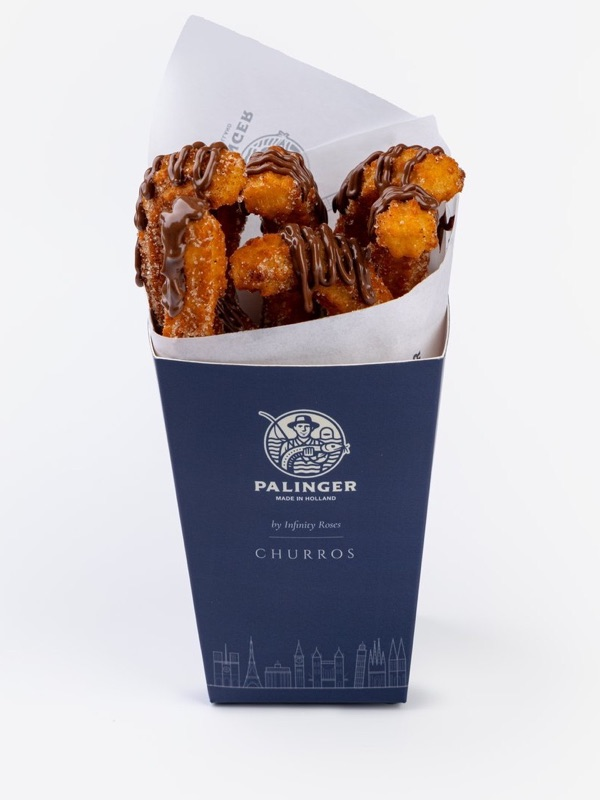
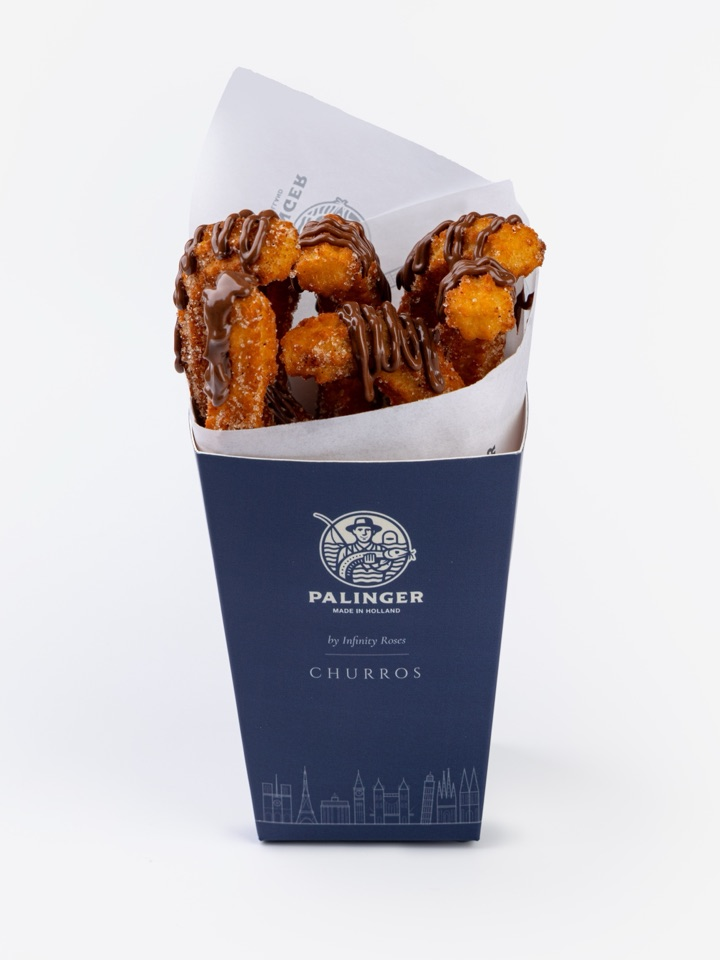
feat: TV wall is now all about desserts and ice cream
Scenes: brand, ice cream (four cups from the LED banner), churros, pancakes
and mini pancakes, crêpes, desserts to go, menu QR. New photos from the
October shoot; ice cream price 35 000 / 65 000 comes from the LED banner
until it is added to the menu with the id "ice-cream".

Changed region(s): [[0.21, 0.0, 0.78, 0.9062]]

diff --git a/tv/wall.js b/tv/wall.js
@@ -13,7 +13,7 @@
   var LANDMARKS = "<g id=\"lx-eiffel\"><path d=\"M0 44 C3 36 5 26 5.8 16 L6.4 6 L7 1 L7.6 6 L8.2 16 C9 26 11 36 14 44 M7 1 V-1.5\" fill=\"none\" stroke=\"#EFE9DC\" stroke-opacity=\"0.72\" stroke-width=\"0.532\" stroke-linecap=\"round\" stroke-linejoin=\"round\"></path><path d=\"M2.5 44 Q7 35.5 11.5 44 M2.4 34 H11.6 M2.2 35.2 H11.8 M4.9 21 H9.1 M4.7 22 H9.3 M6.1 10 H7.9 M6.4 3 H7.6 V4.6 H6.4 Z\" fill=\"none\" stroke=\"#EFE9DC\" stroke-opacity=\"0.7\" stroke-width=\"0.448\" stroke-linecap=\"round\" stroke-linejoin=\"round\"></path><path d=\"M1.2 42.5 L3.4 40.5 L1.9 38.3 L3.9 36.4 L2.6 34.6 M12.8 42.5 L10.6 40.5 L12.1 38.3 L10.1 36.4 L11.4 34.6 M3.2 34 L9.3 21 M10.8 34 L4.7 21 M5 32 L6.1 29 L5.3 26 L6.2 23 M9 32 L7.9 29 L8.7 26 L7.8 23 M5.2 21 L7.6 10 M8.8 21 L6.4 10 M6.3 18 L6.8 14 L6.4 11 M7.7 18 L7.2 14 L7.6 11 M4.5 40 Q7 37.4 9.5 40\" fill=\"none\" stroke=\"#EFE9DC\" stroke-opacity=\"0.5\" stroke-width=\"0.35\" stroke-linecap=\"round\" stroke-linejoin=\"round\"></path></g><g id=\"lx-pisa\"><g transform=\"rotate(5 5 44)\"><path d=\"M2 44 V10 H8 V44 M3 10 V6.2 H7 V10 M3 6.2 Q5 3.4 7 6.2 M1.6 10 H8.4 M1.6 15 H8.4 M5 3.9 V2.6\" fill=\"none\" stroke=\"#EFE9DC\" stroke-opacity=\"0.72\" stroke-width=\"0.532\" stroke-linecap=\"round\" stroke-linejoin=\"round\"></path><path d=\"M2 20 H8 M2 25 H8 M2 30 H8 M2 35 H8 M2 40 H8\" fill=\"none\" stroke=\"#EFE9DC\" stroke-opacity=\"0.6\" stroke-width=\"0.42\" stroke-linecap=\"round\" stroke-linejoin=\"round\"></path><path d=\"M2.20 20 V16.15 Q2.75 15.32 3.30 16.15 V20 M3.60 20 V16.15 Q4.15 15.32 4.70 16.15 V20 M5.00 20 V16.15 Q5.55 15.32 6.10 16.15 V20 M6.40 20 V16.15 Q6.95 15.32 7.50 16.15 V20 M2.20 25 V21.15 Q2.75 20.33 3.30 21.15 V25 M3.60 25 V21.15 Q4.15 20.33 4.70 21.15 V25 M5.00 25 V21.15 Q5.55 20.33 6.10 21.15 V25 M6.40 25 V21.15 Q6.95 20.33 7.50 21.15 V25 M2.20 30 V26.15 Q2.75 25.33 3.30 26.15 V30 M3.60 30 V26.15 Q4.15 25.33 4.70 26.15 V30 M5.00 30 V26.15 Q5.55 25.33 6.10 26.15 V30 M6.40 30 V26.15 Q6.95 25.33 7.50 26.15 V30 M2.20 35 V31.15 Q2.75 30.33 3.30 31.15 V35 M3.60 35 V31.15 Q4.15 30.33 4.70 31.15 V35 M5.00 35 V31.15 Q5.55 30.33 6.10 31.15 V35 M6.40 35 V31.15 Q6.95 30.33 7.50 31.15 V35 M2.20 40 V36.15 Q2.75 35.33 3.30 36.15 V40 M3.60 40 V36.15 Q4.15 35.33 4.70 36.15 V40 M5.00 40 V36.15 Q5.55 35.33 6.10 36.15 V40 M6.40 40 V36.15 Q6.95 35.33 7.50 36.15 V40 M2.20 45 V41.15 Q2.75 40.33 3.30 41.15 V45 M3.60 45 V41.15 Q4.15 40.33 4.70 41.15 V45 M5.00 45 V41.15 Q5.55 40.33 6.10 41.15 V45 M6.40 45 V41.15 Q6.95 40.33 7.50 41.15 V45\" fill=\"none\" stroke=\"#EFE9DC\" stroke-opacity=\"0.48\" stroke-width=\"0.308\" stroke-linecap=\"round\" stroke-linejoin=\"round\"></path><path d=\"M3.40 10 V7.60 Q3.80 7.00 4.20 7.60 V10 M4.60 10 V7.60 Q5.00 7.00 5.40 7.60 V10 M5.80 10 V7.60 Q6.20 7.00 6.60 7.60 V10\" fill=\"none\" stroke=\"#EFE9DC\" stroke-opacity=\"0.55\" stroke-width=\"0.308\" stroke-linecap=\"round\" stroke-linejoin=\"round\"></path></g></g><g id=\"lx-bigben\"><path d=\"M1 44 V15 H7 V44 M0.5 15 H7.5 M0.5 16.2 H7.5 M1.3 15 L4 3 L6.7 15 M4 3 V0.3 M1 23 H7 M1 24 H7\" fill=\"none\" stroke=\"#EFE9DC\" stroke-opacity=\"0.72\" stroke-width=\"0.532\" stroke-linecap=\"round\" stroke-linejoin=\"round\"></path><path d=\"M4 19 m-2.2 0 a2.2 2.2 0 1 0 4.4 0 a2.2 2.2 0 1 0 -4.4 0 M4 19 V17.6 M4 19 L5 19.7\" fill=\"none\" stroke=\"#EFE9DC\" stroke-opacity=\"0.7\" stroke-width=\"0.42\" stroke-linecap=\"round\" stroke-linejoin=\"round\"></path><path d=\"M5.60 19.00 L5.95 19.00 M5.39 19.80 L5.69 19.98 M4.80 20.39 L4.98 20.69 M4.00 20.60 L4.00 20.95 M3.20 20.39 L3.03 20.69 M2.61 19.80 L2.31 19.98 M2.40 19.00 L2.05 19.00 M2.61 18.20 L2.31 18.03 M3.20 17.61 L3.02 17.31 M4.00 17.40 L4.00 17.05 M4.80 17.61 L4.98 17.31 M5.39 18.20 L5.69 18.02\" fill=\"none\" stroke=\"#EFE9DC\" stroke-opacity=\"0.65\" stroke-width=\"0.308\" stroke-linecap=\"round\" stroke-linejoin=\"round\"></path><path d=\"M0.5 15 V13.6 M7.5 15 V13.6 M2.4 11 H5.6 M2.9 8.5 H5.1 M2.6 26 V42 M4 26 V42 M5.4 26 V42 M1 34 H7 M1.90 29 V27.00 Q2.40 26.25 2.90 27.00 V29 M3.30 29 V27.00 Q3.80 26.25 4.30 27.00 V29 M4.70 29 V27.00 Q5.20 26.25 5.70 27.00 V29\" fill=\"none\" stroke=\"#EFE9DC\" stroke-opacity=\"0.48\" stroke-width=\"0.35\" stroke-linecap=\"round\" stroke-linejoin=\"round\"></path></g><g id=\"lx-colosseum\"><path d=\"M0 44 V27 Q8 24.5 15 25 L15 27.5 L17.5 28.5 L18 31 L20.5 32 L22 34 V44\" fill=\"none\" stroke=\"#EFE9DC\" stroke-opacity=\"0.72\" stroke-width=\"0.532\" stroke-linecap=\"round\" stroke-linejoin=\"round\"></path><path d=\"M0 29.5 H15 M0 32 H18 M0 32.8 H18 M0 38 H22 M0 38.8 H22\" fill=\"none\" stroke=\"#EFE9DC\" stroke-opacity=\"0.6\" stroke-width=\"0.392\" stroke-linecap=\"round\" stroke-linejoin=\"round\"></path><path d=\"M1.00 44 V41.20 Q1.90 39.85 2.80 41.20 V44 M3.60 44 V41.20 Q4.50 39.85 5.40 41.20 V44 M6.20 44 V41.20 Q7.10 39.85 8.00 41.20 V44 M8.80 44 V41.20 Q9.70 39.85 10.60 41.20 V44 M11.40 44 V41.20 Q12.30 39.85 13.20 41.20 V44 M14.00 44 V41.20 Q14.90 39.85 15.80 41.20 V44 M16.60 44 V41.20 Q17.50 39.85 18.40 41.20 V44 M19.20 44 V41.20 Q20.10 39.85 21.00 41.20 V44 M1.00 37.6 V35.00 Q1.80 33.80 2.60 35.00 V37.6 M3.60 37.6 V35.00 Q4.40 33.80 5.20 35.00 V37.6 M6.20 37.6 V35.00 Q7.00 33.80 7.80 35.00 V37.6 M8.80 37.6 V35.00 Q9.60 33.80 10.40 35.00 V37.6 M11.40 37.6 V35.00 Q12.20 33.80 13.00 35.00 V37.6 M14.00 37.6 V35.00 Q14.80 33.80 15.60 35.00 V37.6 M16.60 37.6 V35.00 Q17.40 33.80 18.20 35.00 V37.6 M1.3 31.2 h1 v-1.2 h-1 Z M3.9 31.2 h1 v-1.2 h-1 Z M6.5 31.2 h1 v-1.2 h-1 Z M9.1 31.2 h1 v-1.2 h-1 Z M11.7 31.2 h1 v-1.2 h-1 Z M14.3 31.2 h1 v-1.2 h-1 Z M3.25 44 V38.8 M3.25 38 V32.8 M5.85 44 V38.8 M5.85 38 V32.8 M8.45 44 V38.8 M8.45 38 V32.8 M11.05 44 V38.8 M11.05 38 V32.8 M13.65 44 V38.8 M13.65 38 V32.8 M16.25 44 V38.8 M16.25 38 V32.8\" fill=\"none\" stroke=\"#EFE9DC\" stroke-opacity=\"0.5\" stroke-width=\"0.336\" stroke-linecap=\"round\" stroke-linejoin=\"round\"></path></g><g id=\"lx-brandenburg\"><path d=\"M0 44 V29 H18 V44 M-0.4 29 H18.4 M-0.4 30 H18.4 M0.6 29 V25.5 H17.4 V29 M0.6 25.5 H17.4 M7 25.5 V22.6 H11 V25.5\" fill=\"none\" stroke=\"#EFE9DC\" stroke-opacity=\"0.72\" stroke-width=\"0.532\" stroke-linecap=\"round\" stroke-linejoin=\"round\"></path><path d=\"M1.5 30 V44 M2.3 30 V44 M4 30 V44 M4.8 30 V44 M6.5 30 V44 M7.3 30 V44 M10.7 30 V44 M11.5 30 V44 M13.2 30 V44 M14 30 V44 M15.7 30 V44 M16.5 30 V44 M1.6 26.3 V28.2 M2.8 26.3 V28.2 M4.0 26.3 V28.2 M5.2 26.3 V28.2 M6.4 26.3 V28.2 M7.6 26.3 V28.2 M8.8 26.3 V28.2 M10.0 26.3 V28.2 M11.2 26.3 V28.2 M12.4 26.3 V28.2 M13.6 26.3 V28.2 M14.8 26.3 V28.2 M16.0 26.3 V28.2 M7.6 22.6 L8.2 20.6 L8.9 21 L9.3 22.6 M9.2 22.6 L9.8 20.4 L10.5 20.9 L10.6 22.6 M8.6 20.4 L9 18.6 L9.4 20.4\" fill=\"none\" stroke=\"#EFE9DC\" stroke-opacity=\"0.52\" stroke-width=\"0.336\" stroke-linecap=\"round\" stroke-linejoin=\"round\"></path></g><g id=\"lx-towerbridge\"><path d=\"M3 44 V16 H9 V44 M19 44 V16 H25 V44 M3 16 L6 9 L9 16 M19 16 L22 9 L25 16 M6 9 V6.8 M22 9 V6.8 M9 19.5 H19 M9 21.6 H19 M0 36 H3 M9 36 H19 M25 36 H28 M0 37 H3 M9 37 H19 M25 37 H28\" fill=\"none\" stroke=\"#EFE9DC\" stroke-opacity=\"0.72\" stroke-width=\"0.532\" stroke-linecap=\"round\" stroke-linejoin=\"round\"></path><path d=\"M2.5 16 V13.4 L3 12.6 L3.5 13.4 V16 M8.5 16 V13.4 L9 12.6 L9.5 13.4 V16 M18.5 16 V13.4 L19 12.6 L19.5 13.4 V16 M24.5 16 V13.4 L25 12.6 L25.5 13.4 V16 M0 30 Q1.5 34 3 34 M25 34 Q26.5 34 28 30 M9 24 Q14 32 19 24 M10.5 26.6 V36 M12.2 28.4 V36 M14 29 V36 M15.8 28.4 V36 M17.5 26.6 V36 M5.00 44 V38.50 Q6.00 37.00 7.00 38.50 V44 M21.00 44 V38.50 Q22.00 37.00 23.00 38.50 V44 M4.30 24.5 V21.00 Q4.80 20.25 5.30 21.00 V24.5 M6.70 24.5 V21.00 Q7.20 20.25 7.70 21.00 V24.5 M20.30 24.5 V21.00 Q20.80 20.25 21.30 21.00 V24.5 M22.70 24.5 V21.00 Q23.20 20.25 23.70 21.00 V24.5 M4.30 31 V27.50 Q4.80 26.75 5.30 27.50 V31 M6.70 31 V27.50 Q7.20 26.75 7.70 27.50 V31 M20.30 31 V27.50 Q20.80 26.75 21.30 27.50 V31 M22.70 31 V27.50 Q23.20 26.75 23.70 27.50 V31 M9.6 19.5 V21.6 M11.4 19.5 V21.6 M13.2 19.5 V21.6 M15 19.5 V21.6 M16.8 19.5 V21.6\" fill=\"none\" stroke=\"#EFE9DC\" stroke-opacity=\"0.5\" stroke-width=\"0.336\" stroke-linecap=\"round\" stroke-linejoin=\"round\"></path></g><g id=\"lx-sagrada\"><path d=\"M0 44 V24 L1.5 10 L3 24 L4.5 4 L6 24 L7.5 2 L9 24 L10.5 12 L12 24 V44 M0 30 H12 M0 31 H12 M4.5 4 V2.4 M7.5 2 V0.4 M6.9 1 H8.1 M3.9 3 H5.1\" fill=\"none\" stroke=\"#EFE9DC\" stroke-opacity=\"0.72\" stroke-width=\"0.532\" stroke-linecap=\"round\" stroke-linejoin=\"round\"></path><path d=\"M4 44 V36 Q6 31.6 8 36 V44 M5 44 V37 Q6 35 7 37 V44 M1.5 15 m-0.3 0 a0.3 0.5 0 1 0 0.6 0 a0.3 0.5 0 1 0 -0.6 0 M1.5 18 m-0.3 0 a0.3 0.5 0 1 0 0.6 0 a0.3 0.5 0 1 0 -0.6 0 M1.5 21 m-0.3 0 a0.3 0.5 0 1 0 0.6 0 a0.3 0.5 0 1 0 -0.6 0 M4.5 9 m-0.3 0 a0.3 0.5 0 1 0 0.6 0 a0.3 0.5 0 1 0 -0.6 0 M4.5 12 m-0.3 0 a0.3 0.5 0 1 0 0.6 0 a0.3 0.5 0 1 0 -0.6 0 M4.5 15 m-0.3 0 a0.3 0.5 0 1 0 0.6 0 a0.3 0.5 0 1 0 -0.6 0 M4.5 18 m-0.3 0 a0.3 0.5 0 1 0 0.6 0 a0.3 0.5 0 1 0 -0.6 0 M4.5 21 m-0.3 0 a0.3 0.5 0 1 0 0.6 0 a0.3 0.5 0 1 0 -0.6 0 M7.5 7 m-0.3 0 a0.3 0.5 0 1 0 0.6 0 a0.3 0.5 0 1 0 -0.6 0 M7.5 10 m-0.3 0 a0.3 0.5 0 1 0 0.6 0 a0.3 0.5 0 1 0 -0.6 0 M7.5 13 m-0.3 0 a0.3 0.5 0 1 0 0.6 0 a0.3 0.5 0 1 0 -0.6 0 M7.5 16 m-0.3 0 a0.3 0.5 0 1 0 0.6 0 a0.3 0.5 0 1 0 -0.6 0 M7.5 19 m-0.3 0 a0.3 0.5 0 1 0 0.6 0 a0.3 0.5 0 1 0 -0.6 0 M7.5 22 m-0.3 0 a0.3 0.5 0 1 0 0.6 0 a0.3 0.5 0 1 0 -0.6 0 M10.5 16 m-0.3 0 a0.3 0.5 0 1 0 0.6 0 a0.3 0.5 0 1 0 -0.6 0 M10.5 19 m-0.3 0 a0.3 0.5 0 1 0 0.6 0 a0.3 0.5 0 1 0 -0.6 0 M10.5 22 m-0.3 0 a0.3 0.5 0 1 0 0.6 0 a0.3 0.5 0 1 0 -0.6 0 M1 33 V42 M11 33 V42 M2.6 33 V42 M9.4 33 V42\" fill=\"none\" stroke=\"#EFE9DC\" stroke-opacity=\"0.52\" stroke-width=\"0.336\" stroke-linecap=\"round\" stroke-linejoin=\"round\"></path></g><g id=\"lx-arc\"><path d=\"M0 44 V20 H16 V44 M5 44 V31 Q8 25.6 11 31 V44 M-0.3 20 H16.3 M0 22.6 H16 M0 24 H16 M-0.3 25.2 H16.3\" fill=\"none\" stroke=\"#EFE9DC\" stroke-opacity=\"0.72\" stroke-width=\"0.532\" stroke-linecap=\"round\" stroke-linejoin=\"round\"></path><path d=\"M1.2 32 h3 v6 h-3 Z M11.8 32 h3 v6 h-3 Z M1.2 27 h3 v3.6 h-3 Z M11.8 27 h3 v3.6 h-3 Z M5.6 31 Q8 26.8 10.4 31 M1.0 20.6 V22.2 M2.1 20.6 V22.2 M3.2 20.6 V22.2 M4.3 20.6 V22.2 M5.4 20.6 V22.2 M6.5 20.6 V22.2 M7.6 20.6 V22.2 M8.7 20.6 V22.2 M9.8 20.6 V22.2 M10.9 20.6 V22.2 M12.0 20.6 V22.2 M13.1 20.6 V22.2 M14.2 20.6 V22.2 M15.3 20.6 V22.2\" fill=\"none\" stroke=\"#EFE9DC\" stroke-opacity=\"0.52\" stroke-width=\"0.336\" stroke-linecap=\"round\" stroke-linejoin=\"round\"></path></g><g id=\"lx-notredame\"><path d=\"M0 44 V14 H6 V44 M12 44 V14 H18 V44 M6 44 V24 H12 V44 M-0.3 14 H6.3 M11.7 14 H18.3 M0 22 H18 M0 23 H18 M8.6 24 L9 6 L9.4 24\" fill=\"none\" stroke=\"#EFE9DC\" stroke-opacity=\"0.72\" stroke-width=\"0.532\" stroke-linecap=\"round\" stroke-linejoin=\"round\"></path><path d=\"M9 28.6 m-2.3 0 a2.3 2.3 0 1 0 4.6 0 a2.3 2.3 0 1 0 -4.6 0\" fill=\"none\" stroke=\"#EFE9DC\" stroke-opacity=\"0.7\" stroke-width=\"0.42\" stroke-linecap=\"round\" stroke-linejoin=\"round\"></path><path d=\"M9 28.6 L11.30 28.60 M9 28.6 L10.63 30.23 M9 28.6 L9.00 30.90 M9 28.6 L7.37 30.23 M9 28.6 L6.70 28.60 M9 28.6 L7.37 26.97 M9 28.6 L9.00 26.30 M9 28.6 L10.63 26.97 M1.40 21 V16.10 Q2.00 15.20 2.60 16.10 V21 M3.40 21 V16.10 Q4.00 15.20 4.60 16.10 V21 M12.40 21 V16.10 Q13.00 15.20 13.60 16.10 V21 M14.40 21 V16.10 Q15.00 15.20 15.60 16.10 V21 M0.90 44 V38.10 Q3.00 34.95 5.10 38.10 V44 M13.00 44 V38.10 Q15.10 34.95 17.20 38.10 V44 M6.90 44 V37.60 Q9.00 34.45 11.10 37.60 V44 M0 33 H18 M0.8 23 V21.8 M1.7 23 V21.8 M2.6 23 V21.8 M3.5 23 V21.8 M4.4 23 V21.8 M5.3 23 V21.8 M6.2 23 V21.8 M7.1 23 V21.8 M8.0 23 V21.8 M8.9 23 V21.8 M9.8 23 V21.8 M10.7 23 V21.8 M11.6 23 V21.8 M12.5 23 V21.8 M13.4 23 V21.8 M14.3 23 V21.8 M15.2 23 V21.8 M16.1 23 V21.8 M17.0 23 V21.8 M17.9 23 V21.8\" fill=\"none\" stroke=\"#EFE9DC\" stroke-opacity=\"0.52\" stroke-width=\"0.336\" stroke-linecap=\"round\" stroke-linejoin=\"round\"></path></g><g id=\"lx-cologne\"><path d=\"M0 44 V20 L3 1.5 L6 20 V44 M6 44 V20 L9 1.5 L12 20 V44 M0 20 H12 M0 30 H12\" fill=\"none\" stroke=\"#EFE9DC\" stroke-opacity=\"0.72\" stroke-width=\"0.532\" stroke-linecap=\"round\" stroke-linejoin=\"round\"></path><path d=\"M0.30 6 L0.80 5.2 M11.70 6 L11.20 5.2 M0.77 9 L1.27 8.2 M11.23 9 L10.73 8.2 M1.24 12 L1.74 11.2 M10.76 12 L10.26 11.2 M1.71 15 L2.21 14.2 M10.29 15 L9.79 14.2 M2.19 18 L2.69 17.2 M9.81 18 L9.31 17.2 M1.00 29 V22.10 Q1.60 21.20 2.20 22.10 V29 M3.80 29 V22.10 Q4.40 21.20 5.00 22.10 V29 M7.00 29 V22.10 Q7.60 21.20 8.20 22.10 V29 M9.80 29 V22.10 Q10.40 21.20 11.00 22.10 V29 M1.00 44 V33.60 Q1.60 32.70 2.20 33.60 V44 M9.80 44 V33.60 Q10.40 32.70 11.00 33.60 V44 M4.00 44 V36.00 Q6.00 33.00 8.00 36.00 V44 M3 1.5 V0 M9 1.5 V0\" fill=\"none\" stroke=\"#EFE9DC\" stroke-opacity=\"0.52\" stroke-width=\"0.336\" stroke-linecap=\"round\" stroke-linejoin=\"round\"></path></g><g id=\"lx-parthenon\"><path d=\"M0 33 L10 27.4 L20 33 Z M0 33 V35.4 H20 V33 M-0.6 42.6 H20.6 M-1.2 44 H21.2\" fill=\"none\" stroke=\"#EFE9DC\" stroke-opacity=\"0.72\" stroke-width=\"0.532\" stroke-linecap=\"round\" stroke-linejoin=\"round\"></path><path d=\"M0.80 35.4 V42.6 M1.70 35.4 V42.6 M3.20 35.4 V42.6 M4.10 35.4 V42.6 M5.60 35.4 V42.6 M6.50 35.4 V42.6 M8.00 35.4 V42.6 M8.90 35.4 V42.6 M10.40 35.4 V42.6 M11.30 35.4 V42.6 M12.80 35.4 V42.6 M13.70 35.4 V42.6 M15.20 35.4 V42.6 M16.10 35.4 V42.6 M17.60 35.4 V42.6 M18.50 35.4 V42.6 M0 34.2 H20 M3 32 L10 28.4 L17 32\" fill=\"none\" stroke=\"#EFE9DC\" stroke-opacity=\"0.52\" stroke-width=\"0.336\" stroke-linecap=\"round\" stroke-linejoin=\"round\"></path></g>";
   var HALAL = "<svg viewBox=\"0 0 100 100\" aria-hidden=\"true\" role=\"img\"><circle cx=\"50\" cy=\"50\" r=\"47\" fill=\"none\" stroke=\"#EFE9DC\" stroke-width=\"1.6\"/><circle cx=\"50\" cy=\"50\" r=\"42.5\" fill=\"none\" stroke=\"#EFE9DC\" stroke-width=\".8\"/><path fill=\"#EFE9DC\" d=\"M34.42 36.82Q34.36 36.4 34.29 35.96Q34.21 35.53 34.12 35.05Q33.82 34.3 34.12 33.67L34.9 32.17Q35.29 31.36 35.74 32.56Q36.22 33.85 37.12 34.57Q37.75 35.08 37.24 35.74L36.49 36.7Q36.55 37.72 36.7 39.07Q36.85 40.42 37.06 42.16Q37.3 43.9 37.42 45.23Q37.54 46.57 37.6 47.53Q37.81 50.71 36.79 53.23Q36.07 54.91 33.52 56.05Q32.26 56.62 31.12 56.9Q29.98 57.19 28.93 57.16Q24.7 57.1 23.5 54.01Q23.08 52.9 23.08 51.67Q23.08 48.25 25.21 45.58Q25.63 45.04 25.9 45.31Q26.17 45.55 25.84 46.15Q24.43 48.7 24.55 49.99Q24.88 53.29 29.89 53.11Q34.24 52.96 36.04 50.77Q35.65 48.01 35.4 45.97Q35.14 43.93 34.99 42.58Q34.87 41.23 34.72 39.79Q34.57 38.35 34.42 36.82ZM53.17 48.79Q53.41 50.65 52.9 50.8Q52.48 50.95 52.21 49.99Q50.86 45.7 46.33 43L46 43.72Q45.52 44.71 44.23 43.84L41.62 42.04Q40.84 41.53 40.84 40.78L40.78 37.57Q40.78 36.85 41.23 36.61Q41.71 36.34 42.4 36.67Q52.36 41.83 53.17 48.79ZM54.67 35.11 55.63 33.88Q56.32 32.95 56.41 34.75Q57.04 45.01 57.85 48.16Q58.66 51.34 60.16 51.67Q61.39 51.97 61.09 54.22Q60.94 55.24 60.04 55.24Q57.28 55.24 56.32 51.79Q55.81 49.93 55.54 47.26Q55.42 45.91 55.35 45.11Q55.27 44.32 55.24 44.11Q54.52 50.68 51.55 54.28Q50.26 55.78 48.4 56.14Q47.14 56.38 45.91 56.53Q44.68 56.68 43.45 56.74Q42.94 56.74 42.88 56.38Q42.82 55.99 43.18 55.87Q50.38 53.32 52.45 49.6Q53.56 47.44 54.01 43.54Q54.25 41.59 54.34 40.1Q54.43 38.62 54.4 37.6Q54.34 35.53 54.67 35.11ZM69.55 47.65Q70.15 47.92 70.95 48.19Q71.74 48.46 72.76 48.7Q74.77 49.18 76.39 49.15Q77.23 49.18 76.72 50.23L75.79 52.03Q75.49 52.66 74.92 52.6Q74.14 52.51 73.26 52.57Q72.37 52.63 71.38 52.78Q70.39 52.93 69.52 53.15Q68.65 53.38 67.87 53.62Q65.62 54.37 64.21 54.76Q62.8 55.15 62.2 55.21Q61.63 55.24 61.15 55.25Q60.67 55.27 60.28 55.24L59.89 55.18V51.85Q60.16 50.59 61.72 48.28Q63.31 45.91 64.84 46Q65.44 46.03 66.61 46.45Q67.78 46.87 69.55 47.65ZM67.33 50.41Q65.71 49.63 63.94 49.63Q62.11 49.63 61.15 51.58Q62.35 51.52 63.9 51.23Q65.44 50.95 67.33 50.41Z\"/><line x1=\"31\" y1=\"63.5\" x2=\"69\" y2=\"63.5\" stroke=\"#C9CFDA\" stroke-width=\".7\"/><path fill=\"#C9CFDA\" d=\"M32.91 70.84V78.48H31.69V75.22H27.93V78.48H26.7V70.84H27.93V74.06H31.69V70.84ZM37.22 78.48 40.6 70.52H40.67L44.05 78.48H42.65L40.27 72.43L41.15 71.84L38.42 78.48ZM39.34 75.63H41.95L42.37 76.68H38.97ZM48.36 70.84H49.59V77.3H53.34V78.48H48.36ZM57.17 78.48 60.55 70.52H60.63L64.01 78.48H62.6L60.23 72.43L61.1 71.84L58.37 78.48ZM59.29 75.63H61.91L62.33 76.68H58.93ZM68.31 70.84H69.54V77.3H73.3V78.48H68.31Z\"/>";
   var QR = {"n": 25, "d": "M0 0h7v1h-7zM13 0h1v1h-1zM16 0h1v1h-1zM18 0h7v1h-7zM0 1h1v1h-1zM6 1h1v1h-1zM9 1h2v1h-2zM13 1h4v1h-4zM18 1h1v1h-1zM24 1h1v1h-1zM0 2h1v1h-1zM2 2h3v1h-3zM6 2h1v1h-1zM8 2h2v1h-2zM12 2h1v1h-1zM15 2h1v1h-1zM18 2h1v1h-1zM20 2h3v1h-3zM24 2h1v1h-1zM0 3h1v1h-1zM2 3h3v1h-3zM6 3h1v1h-1zM8 3h1v1h-1zM10 3h1v1h-1zM13 3h2v1h-2zM18 3h1v1h-1zM20 3h3v1h-3zM24 3h1v1h-1zM0 4h1v1h-1zM2 4h3v1h-3zM6 4h1v1h-1zM8 4h2v1h-2zM16 4h1v1h-1zM18 4h1v1h-1zM20 4h3v1h-3zM24 4h1v1h-1zM0 5h1v1h-1zM6 5h1v1h-1zM8 5h1v1h-1zM11 5h5v1h-5zM18 5h1v1h-1zM24 5h1v1h-1zM0 6h7v1h-7zM8 6h1v1h-1zM10 6h1v1h-1zM12 6h1v1h-1zM14 6h1v1h-1zM16 6h1v1h-1zM18 6h7v1h-7zM8 7h3v1h-3zM12 7h1v1h-1zM14 7h3v1h-3zM0 8h1v1h-1zM2 8h5v1h-5zM9 8h2v1h-2zM12 8h3v1h-3zM18 8h5v1h-5zM2 9h1v1h-1zM4 9h1v1h-1zM7 9h1v1h-1zM12 9h1v1h-1zM16 9h1v1h-1zM19 9h1v1h-1zM23 9h1v1h-1zM5 10h2v1h-2zM8 10h1v1h-1zM11 10h2v1h-2zM14 10h6v1h-6zM21 10h1v1h-1zM23 10h2v1h-2zM2 11h3v1h-3zM8 11h3v1h-3zM12 11h1v1h-1zM14 11h2v1h-2zM17 11h4v1h-4zM24 11h1v1h-1zM1 12h1v1h-1zM4 12h1v1h-1zM6 12h2v1h-2zM9 12h2v1h-2zM13 12h3v1h-3zM17 12h2v1h-2zM20 12h1v1h-1zM22 12h3v1h-3zM0 13h1v1h-1zM3 13h1v1h-1zM5 13h1v1h-1zM7 13h2v1h-2zM10 13h1v1h-1zM12 13h1v1h-1zM14 13h1v1h-1zM16 13h1v1h-1zM19 13h1v1h-1zM21 13h1v1h-1zM23 13h1v1h-1zM0 14h1v1h-1zM2 14h3v1h-3zM6 14h1v1h-1zM10 14h1v1h-1zM13 14h1v1h-1zM15 14h1v1h-1zM17 14h1v1h-1zM19 14h3v1h-3zM23 14h2v1h-2zM0 15h1v1h-1zM4 15h2v1h-2zM9 15h1v1h-1zM12 15h1v1h-1zM15 15h1v1h-1zM19 15h2v1h-2zM24 15h1v1h-1zM0 16h1v1h-1zM2 16h3v1h-3zM6 16h5v1h-5zM12 16h2v1h-2zM15 16h6v1h-6zM22 16h1v1h-1zM8 17h2v1h-2zM13 17h1v1h-1zM16 17h1v1h-1zM20 17h2v1h-2zM0 18h7v1h-7zM10 18h5v1h-5zM16 18h1v1h-1zM18 18h1v1h-1zM20 18h1v1h-1zM22 18h3v1h-3zM0 19h1v1h-1zM6 19h1v1h-1zM8 19h2v1h-2zM11 19h1v1h-1zM16 19h1v1h-1zM20 19h2v1h-2zM24 19h1v1h-1zM0 20h1v1h-1zM2 20h3v1h-3zM6 20h1v1h-1zM8 20h1v1h-1zM10 20h11v1h-11zM22 20h1v1h-1zM0 21h1v1h-1zM2 21h3v1h-3zM6 21h1v1h-1zM8 21h3v1h-3zM12 21h1v1h-1zM14 21h5v1h-5zM20 21h5v1h-5zM0 22h1v1h-1zM2 22h3v1h-3zM6 22h1v1h-1zM8 22h1v1h-1zM10 22h1v1h-1zM12 22h1v1h-1zM14 22h1v1h-1zM16 22h2v1h-2zM21 22h2v1h-2zM24 22h1v1h-1zM0 23h1v1h-1zM6 23h1v1h-1zM11 23h2v1h-2zM14 23h8v1h-8zM24 23h1v1h-1zM0 24h7v1h-7zM8 24h2v1h-2zM11 24h1v1h-1zM13 24h3v1h-3zM17 24h8v1h-8z"};
-  var DISH = {"palinger-burger": {"ru": ["Палингер Бургер", "Голландская булочка, голландский угорь; в пикантном — спайси соус"], "en": ["Palinger Burger", "Dutch bun, Dutch eel; spicy sauce in the spicy one"], "price": "65 000 / 70 000", "variant": {"ru": "классический / пикантный", "en": "classic / spicy"}, "soldOut": false}, "eel-benedict": {"ru": ["Бенедикт с угрём", "Бриошь, угорь, яйцо пятиминутка, авокадо, крем-чиз, голландез"], "en": ["Eel Benedict", "Brioche, eel, soft-boiled egg, avocado, cream cheese, hollandaise"], "price": "87 000", "variant": null, "soldOut": false}, "salmon-benedict": {"ru": ["Бенедикт с лососем", "Бриошь, слабосолёный лосось, яйцо пятиминутка, авокадо, крем-чиз, голландез"], "en": ["Salmon Benedict", "Brioche, cured salmon, soft-boiled egg, avocado, cream cheese, hollandaise"], "price": "81 000", "variant": null, "soldOut": false}, "churros": {"ru": ["Чурос", "Хрустящие чурос, сахар с корицей, шоколадный соус"], "en": ["Churros", "Crispy churros, cinnamon sugar, chocolate sauce"], "price": "65 000 / 85 000", "variant": {"ru": "S / M", "en": "S / M"}, "soldOut": false}, "pancakes": {"ru": ["Панкейки", "Пышные панкейки, кленовый сироп, сливочное масло, свежие ягоды, сахарная пудра"], "en": ["Pancakes", "Fluffy pancakes, maple syrup, butter, fresh berries, powdered sugar"], "price": "59 000", "variant": {"ru": "обычные / мини", "en": "regular / mini"}, "soldOut": false}, "crepes": {"ru": ["Крепс", "Тонкие блинчики, фисташковый или шоколадный крем, сахарная пудра"], "en": ["Crêpes", "Thin crêpes, pistachio or chocolate cream, powdered sugar"], "price": "69 000", "variant": {"ru": "фисташковый / шоколадный", "en": "pistachio / chocolate"}, "soldOut": false}, "honey-raf": {"ru": ["Медовый раф", ""], "en": ["Honey Raf", ""], "price": "56 000", "variant": null, "soldOut": false}, "cup-brulee": {"ru": ["Кап-брюле", ""], "en": ["Cup Brûlée", ""], "price": "41 000", "variant": null, "soldOut": false}, "condensed-cappuccino": {"ru": ["Капучино со сгущёнкой", ""], "en": ["Condensed Milk Cappuccino", ""], "price": "41 000", "variant": null, "soldOut": false}, "cinnabon-coffee": {"ru": ["Кофе «Синнабон»", ""], "en": ["Cinnabon Coffee", ""], "price": "43 000", "variant": null, "soldOut": false}, "lem-watermelon-melon": {"ru": ["Арбуз-дыня", ""], "en": ["Watermelon & Melon", ""], "price": "40 000 / 70 000", "variant": {"ru": "0,5 л / 1 л", "en": "0.5 L / 1 L"}, "soldOut": false}, "lem-lime-cherry": {"ru": ["Лайм-вишня", ""], "en": ["Lime & Cherry", ""], "price": "53 000 / 87 000", "variant": {"ru": "0,5 л / 1 л", "en": "0.5 L / 1 L"}, "soldOut": false}, "lem-raspberry-passion": {"ru": ["Малина-маракуйя", ""], "en": ["Raspberry & Passion Fruit", ""], "price": "57 000 / 97 000", "variant": {"ru": "0,5 л / 1 л", "en": "0.5 L / 1 L"}, "soldOut": false}, "lem-mango-passion": {"ru": ["Манго-маракуйя", ""], "en": ["Mango & Passion Fruit", ""], "price": "57 000 / 97 000", "variant": {"ru": "0,5 л / 1 л", "en": "0.5 L / 1 L"}, "soldOut": false}, "mojito-classic": {"ru": ["Мохито классический", ""], "en": ["Classic Mojito", ""], "price": "47 000 / 77 000", "variant": {"ru": "0,5 л / 1 л", "en": "0.5 L / 1 L"}, "soldOut": false}, "mojito-strawberry": {"ru": ["Мохито клубничный", ""], "en": ["Strawberry Mojito", ""], "price": "51 000 / 83 000", "variant": {"ru": "0,5 л / 1 л", "en": "0.5 L / 1 L"}, "soldOut": false}, "lem-berry-mix": {"ru": ["Ягодный микс", ""], "en": ["Berry Mix", ""], "price": "53 000 / 87 000", "variant": {"ru": "0,5 л / 1 л", "en": "0.5 L / 1 L"}, "soldOut": false}};   // fallback copy of the menu; prices are refreshed from the live menu page
+  var DISH = {"churros": {"ru": ["Чурос", "Хрустящие чурос, сахар с корицей, шоколадный соус"], "en": ["Churros", "Crispy churros, cinnamon sugar, chocolate sauce"], "price": "65 000 / 85 000", "variant": {"ru": "S / M", "en": "S / M"}, "soldOut": false}, "pancakes": {"ru": ["Панкейки", "Пышные панкейки, кленовый сироп, сливочное масло, свежие ягоды, сахарная пудра"], "en": ["Pancakes", "Fluffy pancakes, maple syrup, butter, fresh berries, powdered sugar"], "price": "59 000", "variant": {"ru": "обычные / мини", "en": "regular / mini"}, "soldOut": false}, "crepes": {"ru": ["Крепс", "Тонкие блинчики, фисташковый или шоколадный крем, сахарная пудра"], "en": ["Crêpes", "Thin crêpes, pistachio or chocolate cream, powdered sugar"], "price": "69 000", "variant": {"ru": "фисташковый / шоколадный", "en": "pistachio / chocolate"}, "soldOut": false}, "ice-cream": {"ru": ["Мороженое", "Fresh milk, crafted with joy"], "en": ["Ice cream", ""], "price": "35 000 / 65 000", "variant": null, "soldOut": false}};   // fallback copy of the menu; prices are refreshed from the live menu page
 
   /* ================= settings ================= */
 
@@ -212,7 +212,7 @@
 
   /* ================= scenes (seconds inside the 80 s loop) ================= */
 
-  // 0–11 brand: the logo glides from the right screen into the left one
+  // 0–10 brand: the logo glides from the right screen into the left one
   function sBrand(a, b) {
     var sc = scene(wall, a, b);
     var lw = 760, lh = Math.round(lw * 486 / 461.9);
@@ -238,80 +238,95 @@
     track(hair, { t: [[a + 0.6, { sx: 0 }, 'io'], [a + 3.2, { sx: 1 }]] });
   }
 
-  // 11–22 signature: Palinger Burger
-  function sSignature(a, b) {
-    var sc = scene(wall, a, b);
-    kickers(sc, a, 'Фирменное', 'Signature');
-    var c = card(sc, CL, 560, 900, 675, 'palinger-burger');
-    glide(c, a + 0.25, XR + 80, 0, 2.3);
-    dishText(col(sc, XR + 70, 500, SW - 140, 860), 'palinger-burger', { ru: 112, en: 34, desc: 46, variant: 44, price: 92 }, a + 1.3);
+  // ice cream cups are cut from the LED banner: navy background with a soft glow, edges faded out
+  function cup(parent, cx, y, w, n) {
+    var ht = Math.round(w * 1400 / 1140);
+    var im = place(h('img', 'abs ice', parent), Math.round(cx - w / 2), y, w, ht);
+    im.alt = ''; im.src = BASE + 'img/ice-' + n + '.jpg';
+    if (im.decode) im.decode().catch(function () {});
+    return im;
   }
-
-  // 22–33 breakfast: two plates drop in, one on each screen
-  function sBreakfast(a, b) {
-    var sc = scene(wall, a, b);
-    kickers(sc, a, 'Завтраки', 'Breakfast');
-    [['eel-benedict', CL, 0], ['salmon-benedict', CR, 1]].forEach(function (d) {
-      var c = card(sc, d[1], 330, 880, 660, d[0]);
-      glide(c, a + 0.2 + d[2] * 0.3, 0, -1150, 1.7);
-      dishText(col(sc, d[1] - 470, 1040, 940, 520), d[0], { ru: 88, en: 28, desc: 38, price: 76 }, a + 1.4 + d[2] * 0.3);
+  // rise from below, then bob gently until the scene ends
+  function riseAndFloat(e, t, b, phase) {
+    var f = [[t, { y: 1000 }, 'out'], [t + 1.7, { y: 0 }, 'io']], up = true;
+    for (var k = t + 1.7 + phase; k < b; k += 1.6) { f.push([k, { y: up ? -14 : 0 }, 'io']); up = !up; }
+    track(e, { o: [[t, 0, 'out'], [t + 0.5, 1]], t: f });
+  }
+  function caption(parent, cls, text, size) {
+    var e = h('div', cls, parent, esc(text));
+    if (size) e.style.fontSize = size + 'px';
+    return e;
+  }
+  function riseAll(list, t) {
+    list.forEach(function (p, i) {
+      if (i) p.style.marginTop = (p.className === 'en' ? 0.55 : p.className.indexOf('price') === 0 ? 0.42 : 0.62) + 'em';
+      rise(p, t + i * 0.14, 34);
     });
   }
 
-  // 33–45 desserts: churros cup crosses the seam, pancakes and crêpes slide in on the right
-  function sDesserts(a, b) {
+  // 10–22 ice cream: four cups rise from below, two on each screen, and keep floating
+  function sIceCream(a, b) {
+    var sc = scene(wall, a, b);
+    kickers(sc, a, 'Мороженое', 'Ice cream');
+    [[CL - 250, 1], [CL + 250, 3], [CR - 250, 2], [CR + 250, 4]].forEach(function (c, i) {
+      riseAndFloat(cup(sc, c[0], 354, 585, c[1]), a + 0.3 + i * 0.18, b, i * 0.4);
+    });
+    var l = col(sc, 70, 1080, SW - 140, 440), r = col(sc, XR + 70, 1080, SW - 140, 440);
+    riseAll([field(l, 'ru', 'ice-cream', 'ru', 120), field(l, 'en', 'ice-cream', 'en', 34)], a + 1.6);
+    riseAll([field(r, 'desc', 'ice-cream', 'desc', 50), field(r, 'price', 'ice-cream', 'price', 92)], a + 1.9);
+  }
+
+  // 22–33 churros: the cup crosses the seam from the right screen, its text appears on the right
+  function sChurros(a, b) {
     var sc = scene(wall, a, b);
     kickers(sc, a, 'Десерты', 'Desserts');
-    var c = card(sc, CL, 320, 510, 680, 'churros');
+    var c = card(sc, CL, 470, 600, 800, 'churros');
     glide(c, a + 0.25, XR + 80, 0, 2.3);
-    dishText(col(sc, 70, 1046, SW - 140, 514), 'churros', { ru: 96, en: 30, desc: 38, variant: 38, price: 76 }, a + 1.4);
-
-    [['pancakes', 470], ['crepes', 990]].forEach(function (d, i) {
-      var g = h('div', 'grp', sc);
-      card(g, XR + 60 + 266, d[1], 500, 375, d[0]);
-      dishText(col(g, XR + 620, d[1], 410, 407), d[0], { ru: 72, en: 24, variant: 34, price: 60 }, a + 1.6 + i * 0.4);
-      glide(g, a + 0.6 + i * 0.35, 760, 0, 1.9);
-    });
+    dishText(col(sc, XR + 70, 470, SW - 140, 832), 'churros', { ru: 120, en: 36, desc: 48, variant: 46, price: 96 }, a + 1.3);
   }
 
-  // 45–56 coffee: four cups arrive as one train from the left
-  function sCoffee(a, b) {
+  // 33–44 pancakes: big ones on the left, mini ones with ice cream on the right
+  function sPancakes(a, b) {
     var sc = scene(wall, a, b);
-    kickers(sc, a, 'Кофе', 'Coffee');
-    var xs = [CL - 255, CL + 255, CR - 255, CR + 255];
-    ['honey-raf', 'cup-brulee', 'condensed-cappuccino', 'cinnabon-coffee'].forEach(function (id, i) {
-      var g = h('div', 'grp', sc);
-      card(g, xs[i], 470, 410, 547, id);
-      var tc = col(g, xs[i] - 240, 1080, 480, 420);
-      tc.style.justifyContent = 'flex-start';
-      dishText(tc, id, { ru: 58, en: 22, price: 62 }, a + 2.0 + i * 0.12);
-      glide(g, a + 0.2 + (3 - i) * 0.07, -(W + 400), 0, 2.6);
-    });
+    kickers(sc, a, 'Панкейки', 'Pancakes');
+    var c1 = card(sc, CL, 340, 900, 675, 'pancakes'), c2 = card(sc, CR, 340, 900, 675, 'mini-pancakes');
+    glide(c1, a + 0.2, -1100, 0, 1.9);
+    glide(c2, a + 0.45, 1100, 0, 1.9);
+    var l = col(sc, 70, 1050, SW - 140, 500), r = col(sc, XR + 70, 1050, SW - 140, 500);
+    riseAll([field(l, 'ru', 'pancakes', 'ru', 92), field(l, 'en', 'pancakes', 'en', 30), field(l, 'desc', 'pancakes', 'desc', 40), field(l, 'price', 'pancakes', 'price', 80)], a + 1.4);
+    riseAll([caption(r, 'ru', 'Мини-панкейки', 92), caption(r, 'en', 'Mini pancakes', 30), caption(r, 'desc', 'с мороженым, ягодами и шоколадом', 40), field(r, 'price', 'pancakes', 'price', 80)], a + 1.7);
   }
 
-  // 56–70 lemonades: a conveyor of seven glasses that steps across both screens
-  function sLemonades(a, b) {
+  // 44–55 crêpes: two close-ups swap screens on the way in, crossing at the seam
+  function sCrepes(a, b) {
     var sc = scene(wall, a, b);
-    kickers(sc, a, 'Лимонады', 'Lemonades', '0,5 л  /  1 л', '0.5 L  /  1 L');
-    var D = W / 4, belt = h('div', 'grp', sc);
-    ['lem-mango-passion', 'lem-raspberry-passion', 'lem-watermelon-melon', 'mojito-classic',
-      'mojito-strawberry', 'lem-lime-cherry', 'lem-berry-mix'].forEach(function (id, k) {
-      var x = D / 2 + k * D;
-      card(belt, x, 480, 420, 560, id);
-      var c = col(belt, x - D / 2 + 16, 1098, D - 32, 330);
-      c.style.justifyContent = 'flex-start';
-      dishText(c, id, { ru: 56, en: 21, price: 52 }, a + 2.0);
-    });
-    track(belt, { t: [
-      [a + 0.1, { x: 4 * D }, 'out'], [a + 2.1, { x: 0 }],
-      [a + 4.4, { x: 0 }, 'io'], [a + 5.2, { x: -D }],
-      [a + 7.5, { x: -D }, 'io'], [a + 8.3, { x: -2 * D }],
-      [a + 10.6, { x: -2 * D }, 'io'], [a + 11.4, { x: -3 * D }],
-      [a + 13.2, { x: -3 * D }, 'in'], [b, { x: -4 * D }]
-    ] });
+    kickers(sc, a, 'Крепс', 'Crêpes');
+    var c1 = card(sc, CL, 330, 600, 800, 'crepes-1'), c2 = card(sc, CR, 330, 600, 800, 'crepes-2');
+    glide(c1, a + 0.2, XR, 0, 2.4);
+    glide(c2, a + 0.45, -XR, 0, 2.4);
+    var l = col(sc, 70, 1180, SW - 140, 380), r = col(sc, XR + 70, 1180, SW - 140, 380);
+    riseAll([field(l, 'ru', 'crepes', 'ru', 100), field(l, 'en', 'crepes', 'en', 32), field(l, 'desc', 'crepes', 'desc', 40)], a + 1.6);
+    riseAll([field(r, 'var', 'crepes', 'var', 46), field(r, 'price', 'crepes', 'price', 92)], a + 1.9);
   }
 
-  // 70–80 menu QR on the left, address on the right
+  // 55–68 to go: the branded cup on the left, tray and box on the right
+  function sToGo(a, b) {
+    var sc = scene(wall, a, b);
+    kickers(sc, a, 'С собой', 'To go');
+    var c = card(sc, CL, 340, 600, 800, 'churros-cup');
+    glide(c, a + 0.2, 0, 1100, 1.9);
+    var l = col(sc, 70, 1200, SW - 140, 340);
+    riseAll([field(l, 'ru', 'churros', 'ru', 96), caption(l, 'desc', 'в фирменном стакане', 46)], a + 1.5);
+    [['to-go-tray', 350, 'Мини-панкейки с мороженым'], ['to-go-box', 975, 'Десерт и кофе']].forEach(function (d, i) {
+      var g = h('div', 'grp', sc);
+      card(g, CR, d[1], 660, 495, d[0]);
+      var t = col(g, XR + 70, d[1] + 535, SW - 140, 60);
+      caption(t, 'var', d[2], 46);
+      glide(g, a + 0.5 + i * 0.35, 1100, 0, 1.9);
+    });
+  }
+
+  // 68–80 menu QR on the left, address on the right
   function sInfo(a, b) {
     var sc = scene(wall, a, b);
     kickers(sc, a, 'Меню онлайн', 'Menu online');
@@ -416,13 +431,13 @@
   } else if (TEST) {
     buildTest();
   } else {
-    sBrand(0, 11);
-    sSignature(11, 22);
-    sBreakfast(22, 33);
-    sDesserts(33, 45);
-    sCoffee(45, 56);
-    sLemonades(56, 70);
-    sInfo(70, 80);
+    sBrand(0, 10);
+    sIceCream(10, 22);
+    sChurros(22, 33);
+    sPancakes(33, 44);
+    sCrepes(44, 55);
+    sToGo(55, 68);
+    sInfo(68, 80);
   }
   fill();
 

diff --git a/tv/wall.css b/tv/wall.css
@@ -87,3 +87,11 @@ body.all .ov a { color: #0B0F19; background: #EFE9DC; text-decoration: none; pad
 body.all .ov a.alt { background: transparent; color: #EFE9DC; border: 1px solid rgba(239, 233, 220, .5); }
 body.all #view { background: #0B0F19; }
 .bezel { position: absolute; top: 0; height: 1920px; background: #04060B; }
+
+/* ice cream cups cut from the LED banner: fade the edges of the picture into the wall */
+.ice {
+  -webkit-mask-image: linear-gradient(to right, transparent, #000 16%, #000 84%, transparent), linear-gradient(to bottom, transparent, #000 9%, #000 91%, transparent);
+  -webkit-mask-composite: source-in;
+  mask-image: linear-gradient(to right, transparent, #000 16%, #000 84%, transparent), linear-gradient(to bottom, transparent, #000 9%, #000 91%, transparent);
+  mask-composite: intersect;
+}
